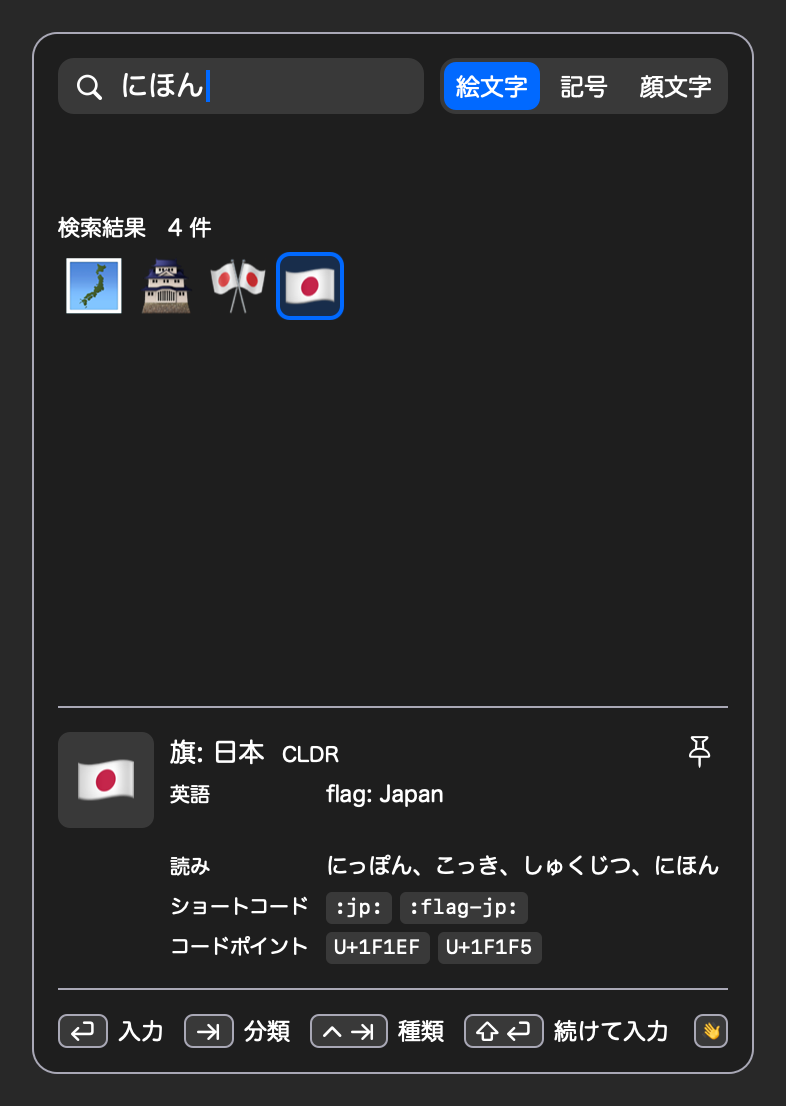
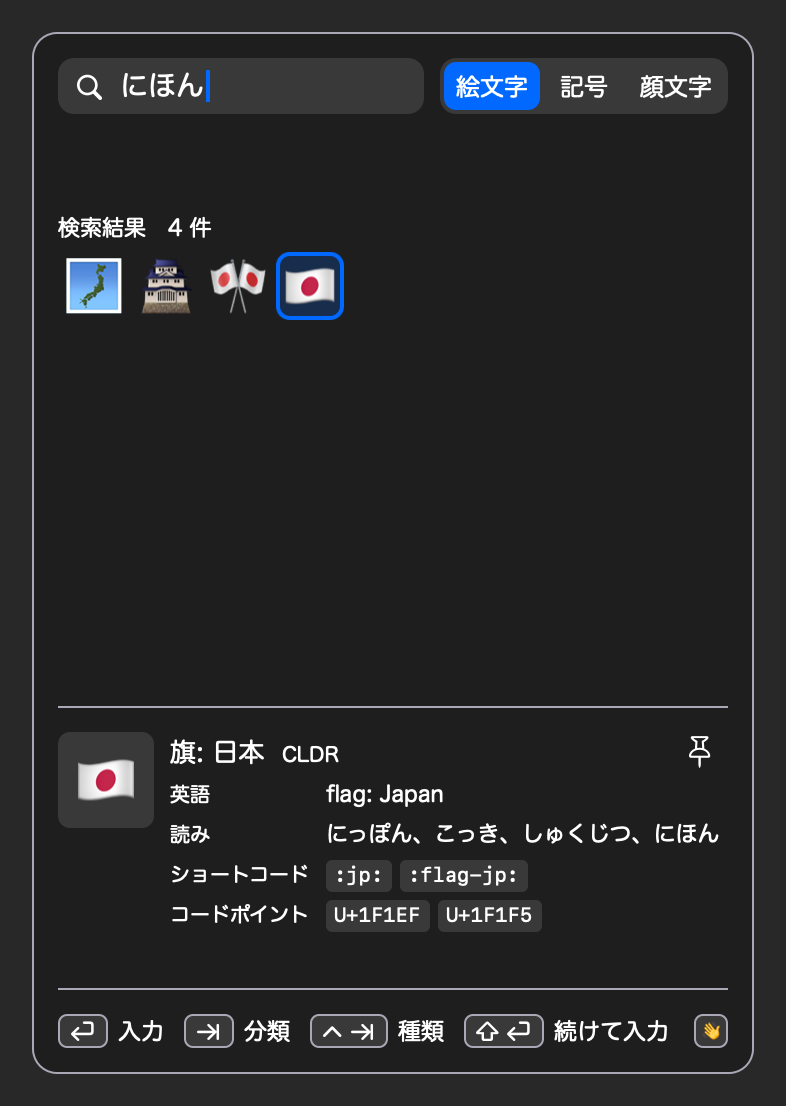
fix(app): パレットの説明の表の行を中身どおりに詰め，取っておく高さは最後の行の下に残す

Changed region(s): [[0.2137, 0.7378, 0.916, 0.8915]]

diff --git a/core/Sources/HajimeApplication/Palette/PalettePreviewLayout.swift b/core/Sources/HajimeApplication/Palette/PalettePreviewLayout.swift
@@ -331,48 +331,39 @@ private struct Planner<Measuring: PalettePreviewMeasuring> {
         var y = area.y + rows.heading.height
         let valueX = valueX
         let valueWidth = area.maxX - valueX
-        // 行は出す項目ごとに決まった高さ(Unicode の名前は unicodeLines 行，ほかは 1 行)を取り，値が短くても空でも詰めない．
-        // 同じ種類の中では最後の行の位置が変わらず，欄の下の端までの間隔がそろう(札が何行にもなるときだけ伸びる)
+        // 行は中身どおりに上から詰め(行の間はどこも rowGap)，値の無い項目の行は出さない．同じ種類の中で窓の大きさを変えないために
+        // 取っておく高さ(Unicode の名前が 1 行のときの 2 行目の分など)は，表の最後の行の下に残る
         // Unicode の名前(並びは英語の名前)．値の x にそろえて折り返す
-        if options.unicodeName, fields.unicodeName {
+        if options.unicodeName, fields.unicodeName, !preview.unicodeName.isEmpty {
             y += metrics.rowGap
-            if !preview.unicodeName.isEmpty {
-                let label = preview.unicodeNameSource == PaletteStrings.unicodeSource ? labels.unicode : labels.english
-                let lines = PreviewLineBreaking.wrapped(preview.unicodeName, width: valueWidth, maxLines: options.unicodeLines) { measuring.width($0, .value) }
-                for (index, line) in lines.enumerated() {
-                    let baseline = y + rows.text.ascent + rows.text.pitch * Double(index)
-                    if index == 0 { texts.append(labelText(label, baseline: baseline)) }
-                    texts.append(.init(text: line, role: .value, x: valueX, baseline: baseline, width: measuring.width(line, .value)))
-                }
+            let label = preview.unicodeNameSource == PaletteStrings.unicodeSource ? labels.unicode : labels.english
+            let lines = PreviewLineBreaking.wrapped(preview.unicodeName, width: valueWidth, maxLines: options.unicodeLines) { measuring.width($0, .value) }
+            for (index, line) in lines.enumerated() {
+                let baseline = y + rows.text.ascent + rows.text.pitch * Double(index)
+                if index == 0 { texts.append(labelText(label, baseline: baseline)) }
+                texts.append(.init(text: line, role: .value, x: valueX, baseline: baseline, width: measuring.width(line, .value)))
             }
-            y += rows.text.height(lines: options.unicodeLines)
+            y += rows.text.height(lines: lines.count)
         }
         // 読み．入る数だけ「、」でつなぎ，残りの数を添える
-        if options.readings, fields.readings {
+        if options.readings, fields.readings, !preview.readings.isEmpty {
             y += metrics.rowGap
-            if !preview.readings.isEmpty {
-                let baseline = y + rows.text.ascent
-                texts.append(labelText(labels.readings, baseline: baseline))
-                let (shown, rest) = fittingReadings(width: valueWidth)
-                let width = measuring.width(shown, .value)
-                texts.append(.init(text: shown, role: .value, x: valueX, baseline: baseline, width: width))
-                if rest > 0 {
-                    let more = labels.more(rest)
-                    texts.append(.init(text: more, role: .more, x: valueX + width + metrics.chipGap, baseline: baseline,
-                                       width: measuring.width(more, .more)))
-                }
+            let baseline = y + rows.text.ascent
+            texts.append(labelText(labels.readings, baseline: baseline))
+            let (shown, rest) = fittingReadings(width: valueWidth)
+            let width = measuring.width(shown, .value)
+            texts.append(.init(text: shown, role: .value, x: valueX, baseline: baseline, width: width))
+            if rest > 0 {
+                let more = labels.more(rest)
+                texts.append(.init(text: more, role: .more, x: valueX + width + metrics.chipGap, baseline: baseline, width: measuring.width(more, .more)))
             }
             y += rows.text.height(lines: 1)
         }
         // ショートコードとコードポイントの札
         // 出さない設定の項目は，値があっても出さない(PalettePanel.Preview(item:) は空にして渡す)
         for (label, values, shown) in [(labels.shortcodes, preview.shortcodes, fields.shortcodes), (labels.codePoints, preview.codePoints, fields.codePoints)]
-            where shown {
+            where shown && !values.isEmpty {
             y += metrics.rowGap
-            guard !values.isEmpty else {
-                y += rows.chip.height(lines: 1)
-                continue
-            }
             texts.append(labelText(label, baseline: y + rows.chip.ascent))
             let (placed, lines) = flowChips(values, top: y, x: valueX, width: valueWidth)
             chips += placed

diff --git a/core/Tests/HajimeApplicationTests/PalettePreviewLayoutTests.swift b/core/Tests/HajimeApplicationTests/PalettePreviewLayoutTests.swift
@@ -116,7 +116,7 @@ struct PalettePreviewLayoutTests {
         #expect(layout.texts.first { $0.role == .source }?.text == "CLDR")
     }
 
-    @Test("R-26: 欄の高さは設定で出る行がすべて出たときの高さで，行は項目ごとに決まった高さを取り，最後の行の下に空きを残さない")
+    @Test("R-26: 欄の高さは設定で出る行がすべて出たときの高さで，行は中身どおりに上から詰め，典型の絵文字では最後の行の下に空きを残さない")
     func height() throws {
         let placed = place(Self.smile)
         let bottom = placed.layout.frames(Measuring()).map(\.maxY).max() ?? 0
@@ -142,24 +142,18 @@ struct PalettePreviewLayoutTests {
         #expect(kaomoji == 48)
         // 選んでいる文字が変わっても値の x は同じ
         #expect(place(Self.flag).layout.valueX == placed.layout.valueX)
-        // 行は項目ごとに決まった高さを取る．Unicode の名前が 1 行でも 2 行分を取り，最後の行(コードポイント)は欄の下の端に付く
+        // 行は中身どおりに上から詰める(行の間はどこも 4)．Unicode の名前が 1 行の記号は，取っておいた 2 行目の分が最後の行の下に残る
         let arrow = PaletteItem(kind: .symbol, category: .arrows, text: "⇒", japaneseName: "右向き二重矢印", readings: ["やじるし"])
         let symbolPlaced = place(arrow)
         expectAligned(symbolPlaced)
-        func labels(_ placed: Placed) -> [String: Double] {
-            Dictionary(placed.layout.texts.filter { $0.role == .label }.map { ($0.text, $0.baseline) }, uniquingKeysWith: { first, _ in first })
+        let valueLines = symbolPlaced.layout.texts.filter { $0.role == .value }.map(\.baseline)
+        let labelBaselines = symbolPlaced.layout.texts.filter { $0.role == .label }.map(\.baseline)
+        let row: Double = 16 + 4
+        for (upper, lower) in zip(labelBaselines, labelBaselines.dropFirst()) {
+            let lines = Double(valueLines.filter { $0 >= upper && $0 < lower }.count)
+            #expect(lower - upper == row + 16 * (lines - 1))
         }
-        let arrowLabels = labels(symbolPlaced)
-        #expect(placed.layout.texts.filter { $0.role == .value }.count >= 2)
-        #expect(symbolPlaced.layout.texts.filter { $0.role == .value && $0.baseline == arrowLabels["Unicode"] }.count == 1)
-        let unicodeBaseline: Double = try #require(arrowLabels["Unicode"])
-        let readingsBaseline: Double = try #require(arrowLabels["読み"])
-        let slot: Double = 16 * 2 + 4
-        #expect(readingsBaseline - unicodeBaseline == slot)
-        let smileLabels = labels(placed)
-        let arrowLast: Double = try #require(arrowLabels["コードポイント"])
-        let smileLast: Double = try #require(smileLabels["コードポイント"])
-        #expect(symbolPlaced.area.maxY - arrowLast == placed.area.maxY - smileLast)
+
     }
 
     @Test("R-26: 並びの英語の名前は「英語」の行に出し，「CLDR」は見出しの 1 か所だけ")

diff --git a/apps/windows/crates/candidate-ui/src/palette/preview.rs b/apps/windows/crates/candidate-ui/src/palette/preview.rs
@@ -405,57 +405,53 @@ impl Planner<'_> {
         let value_x = self.value_x();
         let value_width = content.max_x() - value_x;
         let pitch = rows.table.pitch;
-        // 行は出す項目ごとに決まった高さ(Unicode の名前は unicode_lines 行，ほかは 1 行)を取り，値が短くても空でも詰めない．
-        // 同じ種類の中では最後の行の位置が変わらず，欄の下の端までの間隔がそろう(札が何行にもなるときだけ伸びる)
+        // 行は中身どおりに上から詰め(行の間はどこも item-gap)，値の無い項目の行は出さない．同じ種類の中で窓の大きさを変えないために
+        // 取っておく高さ(Unicode の名前が 1 行のときの 2 行目の分など)は，表の最後の行の下に残る
         // Unicode の名前(並びは英語の名前)．値の x にそろえて折り返す
-        if options.unicode_name && self.fields.unicode_name {
+        if options.unicode_name && self.fields.unicode_name && !self.shown.english_name.is_empty() {
             y += gap;
-            if !self.shown.english_name.is_empty() {
-                let label = if self.shown.english_name_source.as_deref()
-                    == Some(strings::PALETTE_UNICODE_SOURCE)
-                {
-                    strings::PALETTE_UNICODE_NAME
-                } else {
-                    strings::PALETTE_ENGLISH_NAME
-                };
-                let lines = fitting::wrapped(
-                    &self.shown.english_name,
-                    value_width,
-                    options.unicode_lines,
-                    &self.metrics.measuring(Role::Value),
-                );
-                for (index, line) in lines.iter().enumerate() {
-                    let baseline = y + rows.table.ascent + pitch * index as f32;
-                    if index == 0 {
-                        parts.push(self.text(label.to_string(), Role::Label, left, baseline));
-                    }
-                    parts.push(self.text(line.clone(), Role::Value, value_x, baseline));
+            let label = if self.shown.english_name_source.as_deref()
+                == Some(strings::PALETTE_UNICODE_SOURCE)
+            {
+                strings::PALETTE_UNICODE_NAME
+            } else {
+                strings::PALETTE_ENGLISH_NAME
+            };
+            let lines = fitting::wrapped(
+                &self.shown.english_name,
+                value_width,
+                options.unicode_lines,
+                &self.metrics.measuring(Role::Value),
+            );
+            for (index, line) in lines.iter().enumerate() {
+                let baseline = y + rows.table.ascent + pitch * index as f32;
+                if index == 0 {
+                    parts.push(self.text(label.to_string(), Role::Label, left, baseline));
                 }
+                parts.push(self.text(line.clone(), Role::Value, value_x, baseline));
             }
-            y += rows.table.height(options.unicode_lines);
+            y += rows.table.height(lines.len());
         }
         // 読み．入る数だけ「、」でつなぎ，残りの数を添える
-        if options.readings && self.fields.readings {
+        if options.readings && self.fields.readings && !self.shown.readings.is_empty() {
             y += gap;
-            if !self.shown.readings.is_empty() {
-                let baseline = y + rows.table.ascent;
+            let baseline = y + rows.table.ascent;
+            parts.push(self.text(
+                strings::PALETTE_READINGS.to_string(),
+                Role::Label,
+                left,
+                baseline,
+            ));
+            let (text, rest) = self.fitting_readings(value_width);
+            let width = self.metrics.width(&text, Role::Value);
+            parts.push(self.text(text, Role::Value, value_x, baseline));
+            if rest > 0 {
                 parts.push(self.text(
-                    strings::PALETTE_READINGS.to_string(),
-                    Role::Label,
-                    left,
+                    strings::more(rest),
+                    Role::More,
+                    value_x + width + palette::ITEM_GAP,
                     baseline,
                 ));
-                let (text, rest) = self.fitting_readings(value_width);
-                let width = self.metrics.width(&text, Role::Value);
-                parts.push(self.text(text, Role::Value, value_x, baseline));
-                if rest > 0 {
-                    parts.push(self.text(
-                        strings::more(rest),
-                        Role::More,
-                        value_x + width + palette::ITEM_GAP,
-                        baseline,
-                    ));
-                }
             }
             y += rows.table.height(1);
         }
@@ -478,14 +474,10 @@ impl Planner<'_> {
                 self.fields.code_points,
             ),
         ] {
-            if !shown {
+            if !shown || values.is_empty() {
                 continue;
             }
             y += gap;
-            if values.is_empty() {
-                y += rows.table.height(1);
-                continue;
-            }
             parts.push(self.text(label.to_string(), Role::Label, left, y + rows.table.ascent));
             let (chips, lines) = self.flow_chips(values, y, value_x, value_width);
             parts.extend(chips);
@@ -926,8 +918,8 @@ mod tests {
     }
 
     #[test]
-    fn 行は項目ごとに決まった高さを取り_最後の行は欄の下の端に付く() {
-        // 記号の Unicode の名前が 1 行でも 2 行分を取り，読みはその下から始める
+    fn 行は中身どおりに詰め_取っておく高さは最後の行の下に残す() {
+        // 記号の Unicode の名前が 1 行なら，読みはそのすぐ下の行(行の間 4)．表の途中に穴を空けない
         let symbol = sample::symbol();
         let placed = setup(
             symbol.preview.as_ref().unwrap(),
@@ -937,23 +929,23 @@ mod tests {
         );
         assert_aligned(&placed);
         let labels = texts(&placed.placed, Role::Label);
-        let baseline = |name: &str| {
-            labels
-                .iter()
-                .find(|(text, _, _)| text == name)
-                .map(|(_, _, baseline)| *baseline)
-                .unwrap()
-        };
+        let baselines: Vec<f32> = labels.iter().map(|(_, _, baseline)| *baseline).collect();
         assert_eq!(
             texts(&placed.placed, Role::Value)[0].0,
             "RIGHTWARDS DOUBLE ARROW"
         );
+        for pair in baselines.windows(2) {
+            assert_eq!(
+                pair[1] - pair[0],
+                palette::TEXT_ROW_HEIGHT + palette::ITEM_GAP
+            );
+        }
+        // 取っておいた 2 行目の分は，最後の行の下に残る
         assert_eq!(
-            baseline("読み") - baseline("Unicode"),
-            palette::TEXT_ROW_HEIGHT * 2.0 + palette::ITEM_GAP
+            placed.area.content.max_y() - placed.placed.rows_bottom,
+            palette::TEXT_ROW_HEIGHT
         );
-        // 最後の行(コードポイント)の下の端は欄の下の端．絵文字と同じ間隔
-        assert_eq!(placed.placed.rows_bottom, placed.area.content.max_y());
+        // 絵文字(Unicode の名前が 2 行)は欄の下の端まで埋まる
         let emoji = sample::emoji();
         let smile = setup(
             emoji.preview.as_ref().unwrap(),
@@ -962,11 +954,6 @@ mod tests {
             palette::TILE_SIZE,
         );
         assert_eq!(smile.placed.rows_bottom, smile.area.content.max_y());
-        let last = |setup: &Setup| {
-            let labels = texts(&setup.placed, Role::Label);
-            setup.area.content.max_y() - labels.last().unwrap().2
-        };
-        assert_eq!(last(&placed), last(&smile));
     }
 
     #[test]

diff --git a/docs/specs/REQUIREMENTS.md b/docs/specs/REQUIREMENTS.md
@@ -303,7 +303,7 @@ JIS キーボードの ¥ キーで何を入れるかを，設定ひとつで変
 - 絵文字は既定の肌の色と，絵文字ごとに選んだ肌の色で出して入れる．OS が描けない新しい絵文字は出さない
 - 見た目はテーマ(カスタムテーマを含む)に合わせ，列数・行数・マスの大きさ・文字の説明・よく使う文字の行数を設定で変えられる
 - 動きを付ける．開くと少し下から浮かび上がり，選択の枠と種類・まとまりの印は前の位置から滑り，種類を切り替えたときとまとまりへ飛んだときは中身を送り，肌の色の帯は浮かび上がり，ピン留めのピンは弾む．何が動いたかは core が決めて内容に添え(`PalettePanel.Motion`)，両 OS が同じ長さ(`motion.palette`)で動かす．動いている部品の範囲だけを動いているあいだだけ描き直す．OS の「視差効果を減らす」(macOS)・「アニメーション効果」(Windows)がオフを求めていれば動かさない
-- 文字の説明は，見本の右の列に，見出しの日本語の名前(絵文字は CLDR の短い名前．記号は CLDR の名前か Hajime IME が付けた名前．どちらで定めた名前かを同じベースラインに「CLDR」「Hajime IME」と添える．表の「名前の出どころ」の列)と「項目名 → 値」の表を置く．項目は Unicode(1 つの符号位置の文字の UCD の名前．国旗・ZWJ・キーキャップなどの並びは項目名を「英語」にして CLDR の英語の短い名前)・読み・ショートコード・コードポイント．値はどの行も同じ x から書き出し，項目名と値はベースラインで合わせる．名前の読みは 1 度だけ出し，顔文字にはコードポイントを出さない．ショートコードとコードポイントは途中で切らない．Unicode の名前は 2 行までで，残りは読み上げで伝える．Unicode の名前・読み・ショートコード・コードポイントは，それぞれ出すかを設定で選べる(既定はすべて出す)．説明の欄の高さは，その種類で設定により出る行の分だけにし(顔文字は見出しと読み，記号はショートコードの行を除く)，選んでいる文字では変えない(行は項目ごとに決まった高さを取る)．説明の欄が低い種類は，マス目に回せる分の行を増やし，回しきれない分だけ窓を低くする．区切りの線の上と下の間隔はどの種類でも同じ(`PalettePanel.Preview`・`PalettePreviewLayout`・`PaletteWindowLayout`)．マスと説明の見本の絵文字は，実際の外形が余白の内側に収まる大きさにし，外形の中心で真ん中に置く
+- 文字の説明は，見本の右の列に，見出しの日本語の名前(絵文字は CLDR の短い名前．記号は CLDR の名前か Hajime IME が付けた名前．どちらで定めた名前かを同じベースラインに「CLDR」「Hajime IME」と添える．表の「名前の出どころ」の列)と「項目名 → 値」の表を置く．項目は Unicode(1 つの符号位置の文字の UCD の名前．国旗・ZWJ・キーキャップなどの並びは項目名を「英語」にして CLDR の英語の短い名前)・読み・ショートコード・コードポイント．値はどの行も同じ x から書き出し，項目名と値はベースラインで合わせる．名前の読みは 1 度だけ出し，顔文字にはコードポイントを出さない．ショートコードとコードポイントは途中で切らない．Unicode の名前は 2 行までで，残りは読み上げで伝える．Unicode の名前・読み・ショートコード・コードポイントは，それぞれ出すかを設定で選べる(既定はすべて出す)．説明の欄の高さは，その種類で設定により出る行の分だけにし(顔文字は見出しと読み，記号はショートコードの行を除く)，選んでいる文字では変えない(行は中身どおりに上から詰め，取っておく高さは表の最後の行の下に残す)．説明の欄が低い種類は，マス目に回せる分の行を増やし，回しきれない分だけ窓を低くする．区切りの線の上と下の間隔はどの種類でも同じ(`PalettePanel.Preview`・`PalettePreviewLayout`・`PaletteWindowLayout`)．マスと説明の見本の絵文字は，実際の外形が余白の内側に収まる大きさにし，外形の中心で真ん中に置く
 - 表は `data/palette/palette.tsv`(`tools/palette/update.sh` が Unicode・CLDR・azooKey の絵文字の辞書・iamcal/emoji-data・Mozc の顔文字の表から作る)．使った文字は端末の中にだけ保存し，同期しない．通信しない
 - 受け入れ条件: ⌃⌥E で開き，「ojigi」と打って Enter で 🙇 が入る．「:bow:」と打つとそのまま 🙇 が入る(パレットを開かずに打っても入る)．記号のパレットで「やじるし」と打つと矢印が出る．顔文字のパレットで「shobo-n」(しょぼーん)と打つと (´・ω・｀) が先頭に出て，絵文字のパレットで探しても顔文字は出ない．よく使う文字の行は開いているあいだ並びが変わらない．パレットを使わない設定ではキーがアプリに渡る
 
